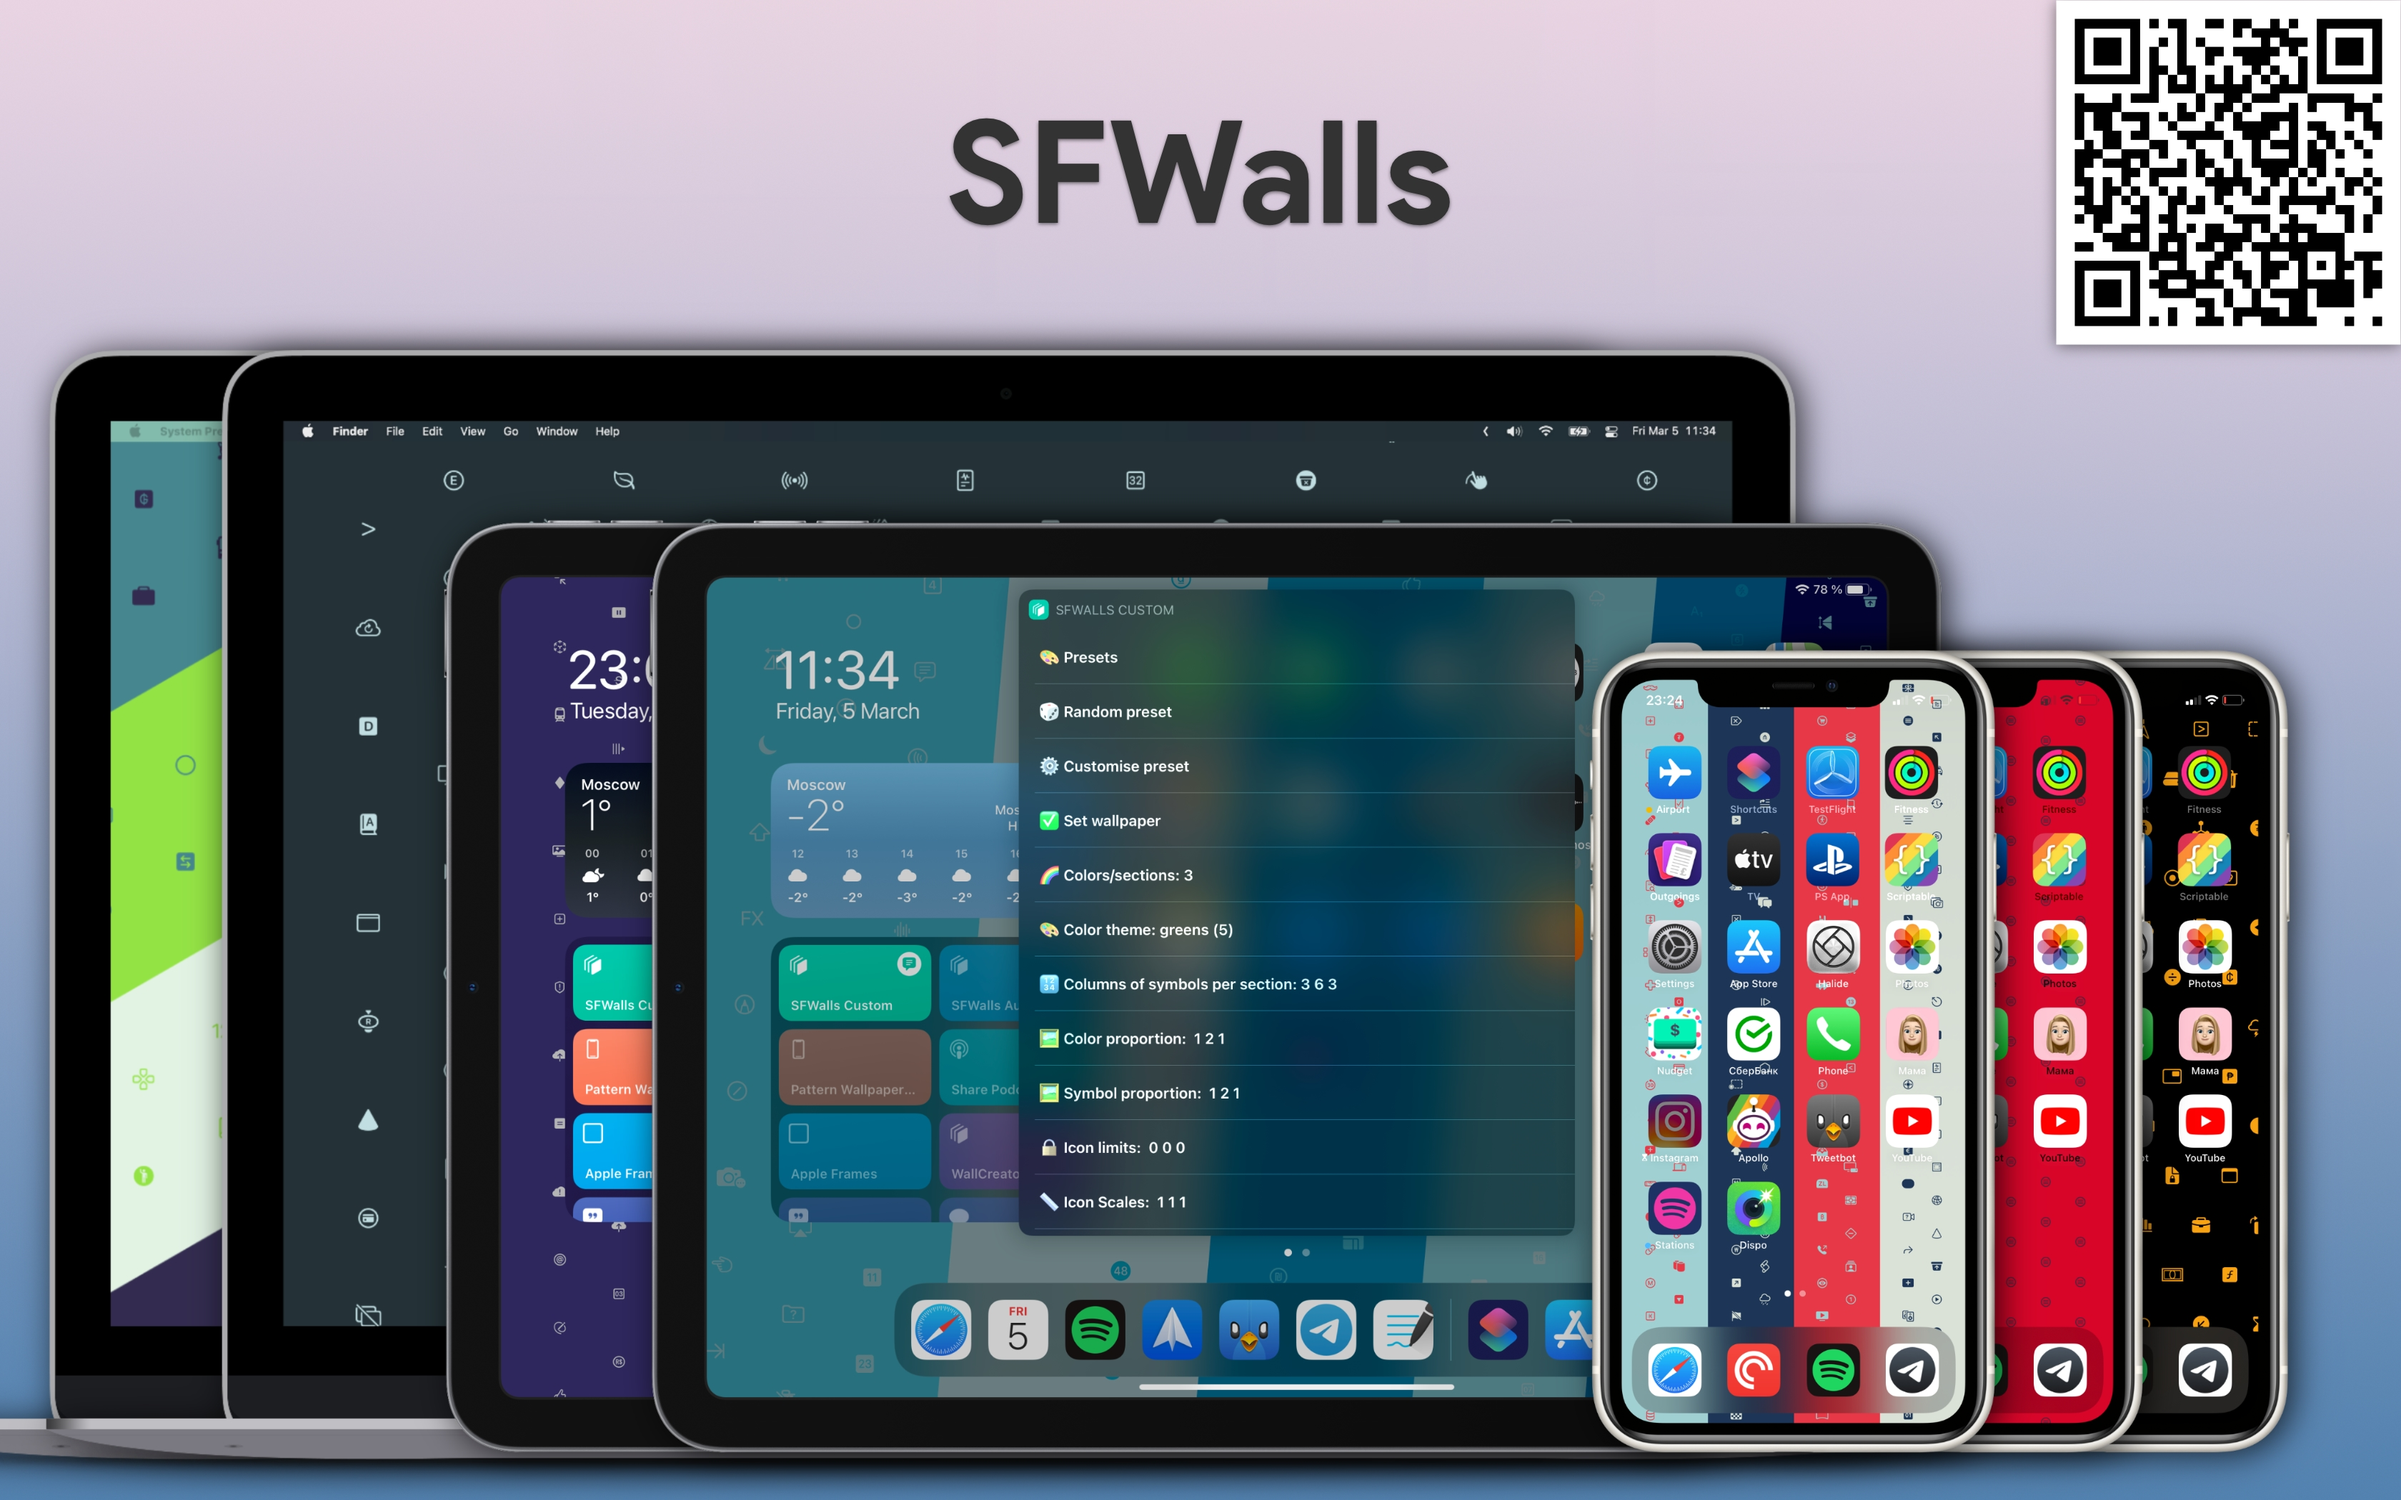
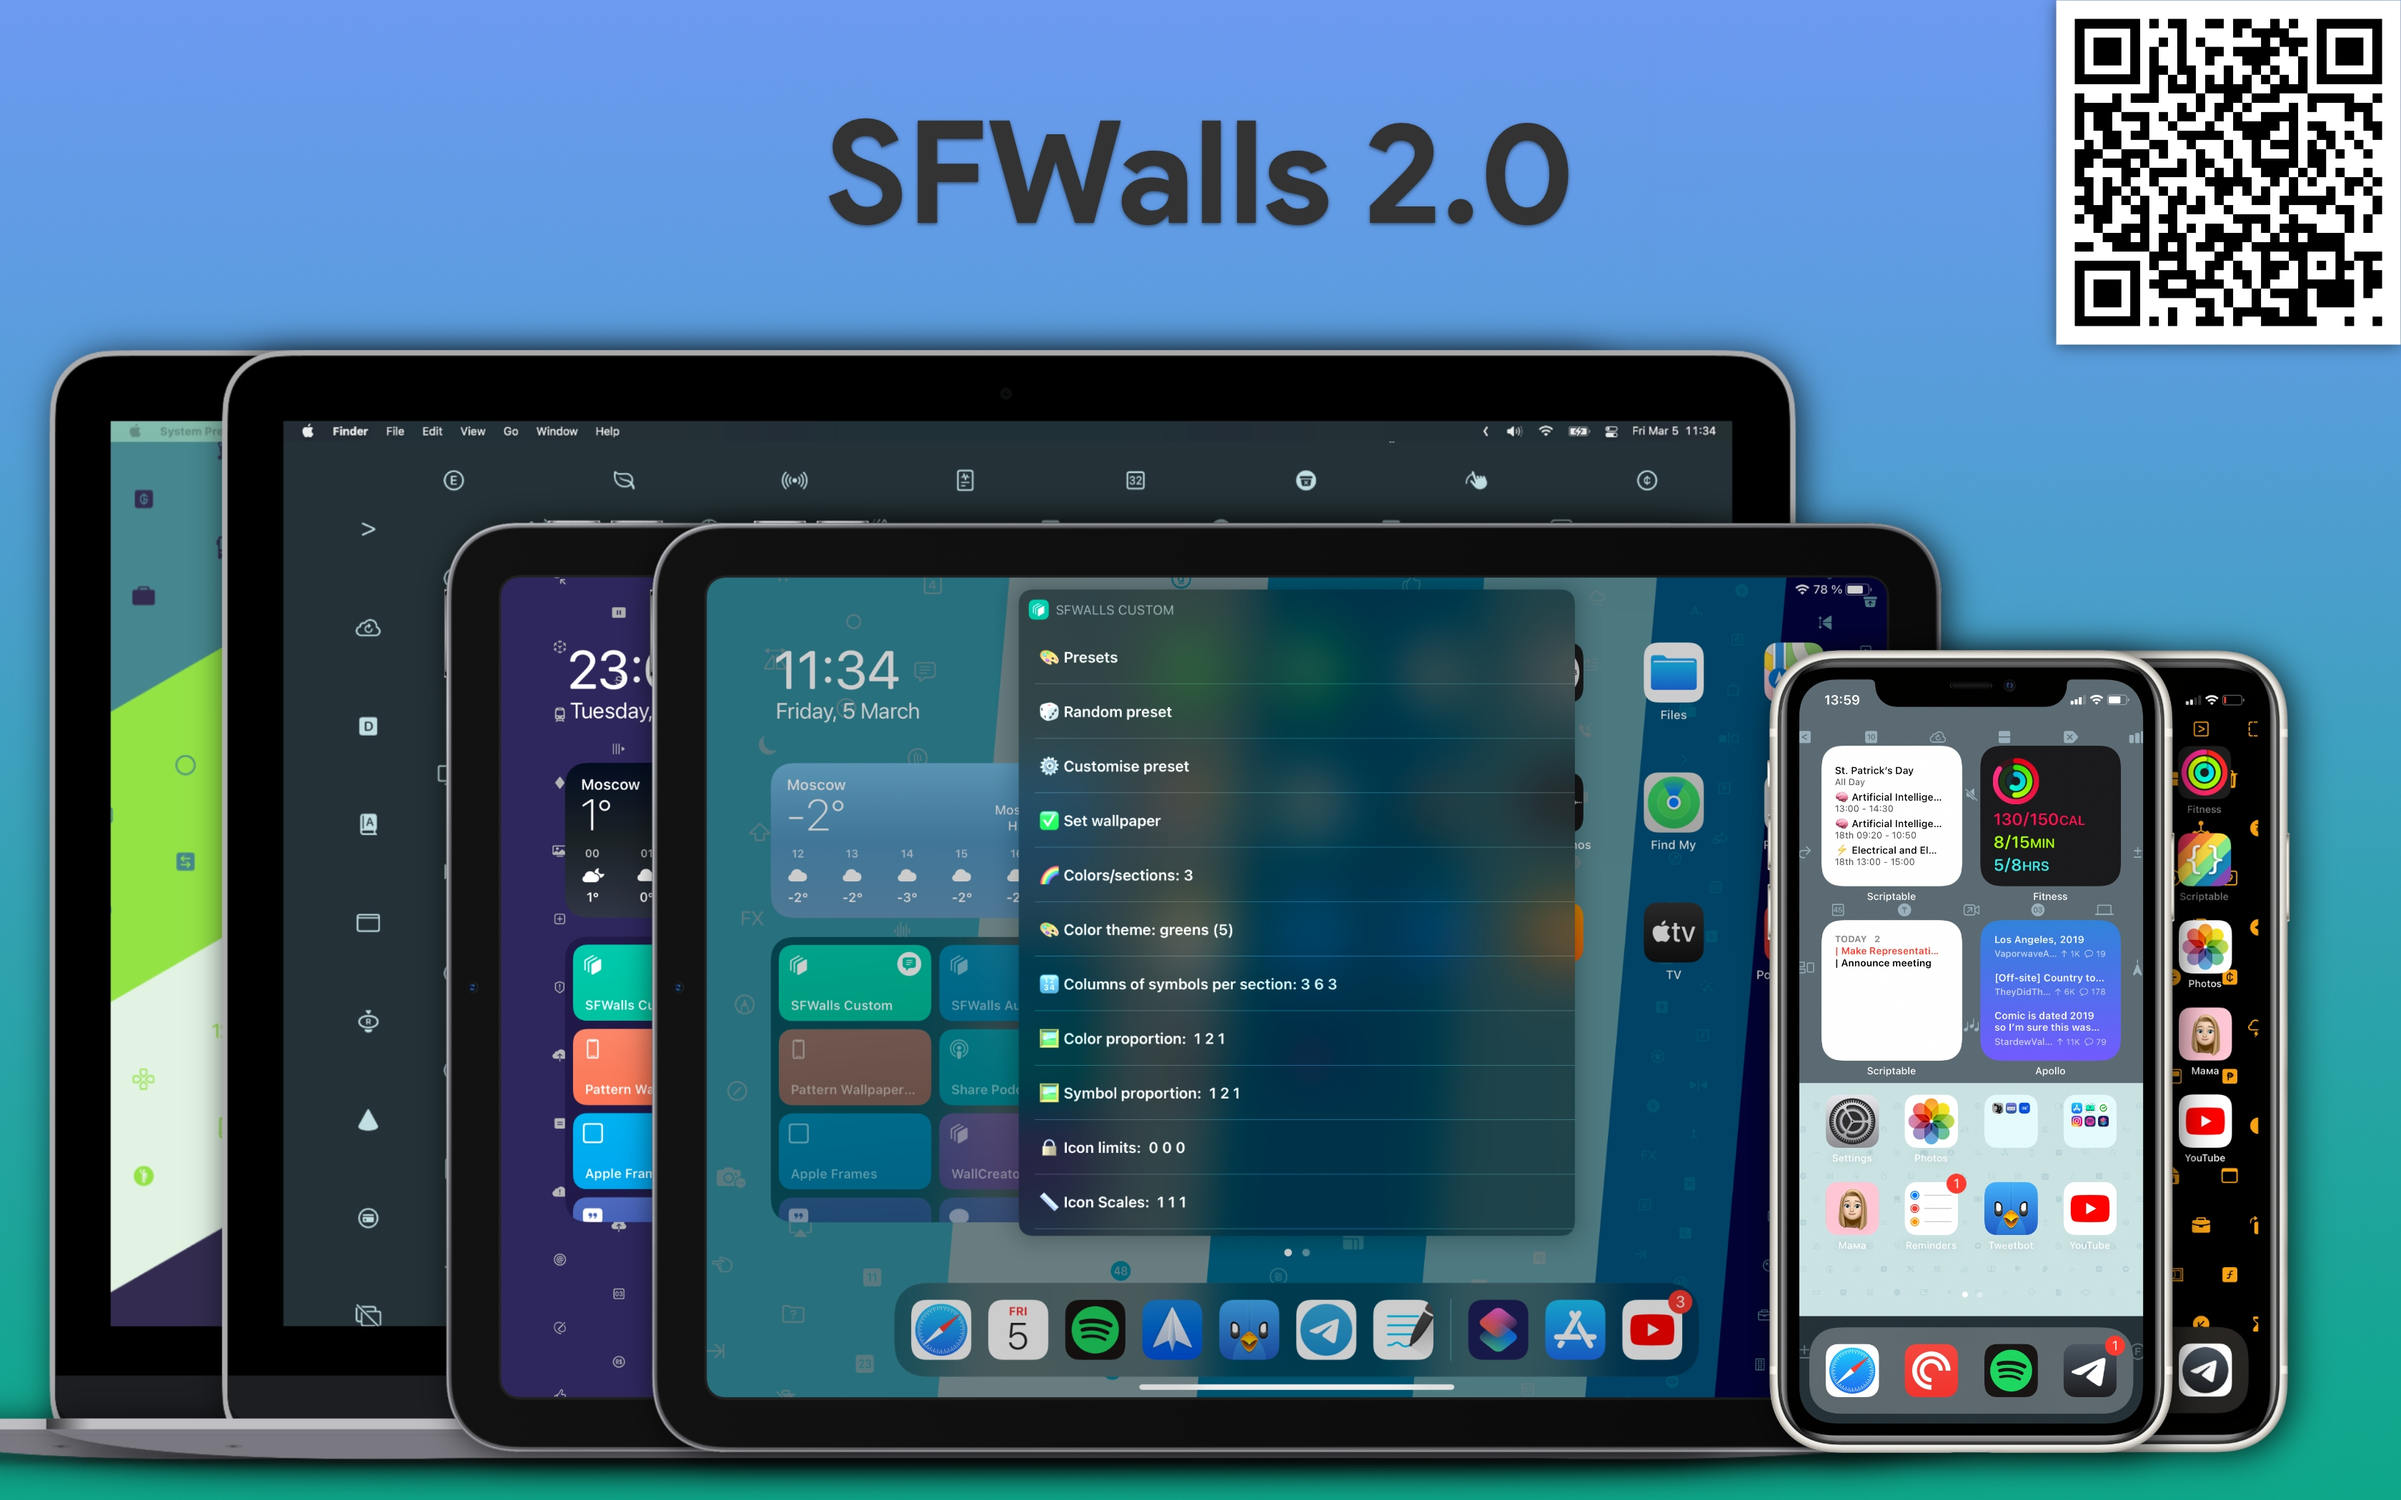
2.0 release

diff --git a/README.md b/README.md
@@ -10,6 +10,16 @@ Created by [@glebosotov](https://github.com/glebosotov) and [@AzazKamaz](https:/
 
 The easiest way to contact us is Telegram 
 
+
+
+### ✨ New in 2.0
+
+- **categories** of symbols or individual user-defined symbols
+- **import** a preset using **text input** or **iCloud**
+- **export** a preset to **clipboard**, iCloud or **save in the shortcut** itself
+- link to help and documentation inside the shortcut
+- built-in update system using [this](https://routinehub.co/shortcut/2672/)
+
 ### Features:
 
 - Create randomized custom wallpapers for your iPhone, iPad and Desktop
@@ -35,6 +45,7 @@ The easiest way to contact us is Telegram
 - In your iCloud/Shortcuts there should be
   - `colorsmac.json` – color themes
   - `mac.json` – presets
+  - `symbols.json`  - symbol categories
 - The default behaviour is: for each preset in the `mac.json` there will be created a wallpaper with every color theme from `colorsmac.json`
 - The wallpapers will be saved to  `iCloud/Shortcuts/SFWalls`
 
@@ -102,11 +113,74 @@ Angle of symbol coloring
 
 **Global limit** on set of symbols (for example the whole wallpaper could be created using just 1 random symbol). 0 means unlimited
 
+#### 🈲 Global symbol category
+
+Specify the Global theme for symbols
+
+Categories are kept in JSON at the start of the shortcut
+
+#### 🈲 Symbol category per section
+
+Specify the Symbol Categoies (full list below). 
+– Use `#` to specify the name of exact symbol
+– Use *space* to separate names 
+– Use `;` to separate colors/sections
+– Use `.outlined` or `.filled` after category name
+– Leave a section blank to make it empty
+
+*An example:*
+**#applelogo Health.outlined ; Communication.filled ; Gaming.filled**
+
+Categories are kept in JSON at the start of the shortcut
+
+#### ⤴ Export a preset
+
+Choose a method to **save currently edited preset**
+
+- Save your preset to a user-defined location and use it later within the 🎨 **Presets** action.
+  - default location is `Shortcuts/SFWalls_presets.txt`
+  - for some reason, using nested folders of `json` file format breaks everything, so keep it *simple*
+- Save it to clipboard (without a name, perfect for ⬇ **Import a preset** action)
+- Save it as a separate text file (without a name, perfect for ⬇ **Import a preset** action)
+
+#### ⬇ Import a preset
+
+Run shortcut with a **predefined preset**. It **should not have a name** only an array with parameters like this
+
+```json
+{
+  "symbolColorAngle": 90,
+  "category": "Communication",
+  "orientation": "Portrait",
+  "iconScales": [1, 1, 1],
+  "symbolAngle": 90,
+  "limitSymbols": 0,
+  "colorAngle": 90,
+  "themeName": "black and white (5)",
+  "colors": 3,
+  "columns": [4, 6, 3],
+  "symbolProportion": [550, 1000, 250],
+  "iconLimits": [0, 0, 0],
+  "colorProportion": [550, 1000, 250]
+}
+```
+
+- from a **text input**
+- from an **iCloud** text **file**
+
 
 
 ### Auto version:
 
+The only **setting**: there is a number block at the start. Set it to `1` to randomize color theme every time, set to `0` to load color theme from preset.  
+
 This version **randomly chooses** from presets (can be changed, saved as JSON text at the start), then sets the wallpaper to both Home and Lock Screen. No user action required, can be used with **Automations** or by **double-tapping the back** of your iPhone (Settings -> Accessibility -> Touch -> Back Tap -> Double Tap -> SFWalls auto).
+
+
+
+### Disable auto-update system:
+
+**Delete repeat 1 time block** at the start of the shortcut (with all actions inside)
 
 
 
@@ -152,7 +226,20 @@ One has one array for both foreground (symbol coloring) and background (colors/s
 
 
 
+### How `symbols.json` works:
 
+There is an "*All*" dictionary. Do not touch it, it contains all symbols. 
+
+Others have the following structure:
+
+```json
+"name":{
+  "filled":["symbol1","symbol2"],
+  "outlined":["symbol1","symbol2"]
+}
+```
+
+Where *filled* contains the symbols that will be used with category (in config) `name.filled` and *notFilled* contains the symbols that will be used with category `name.outlined`
 
 ## Troubleshooting:
 
